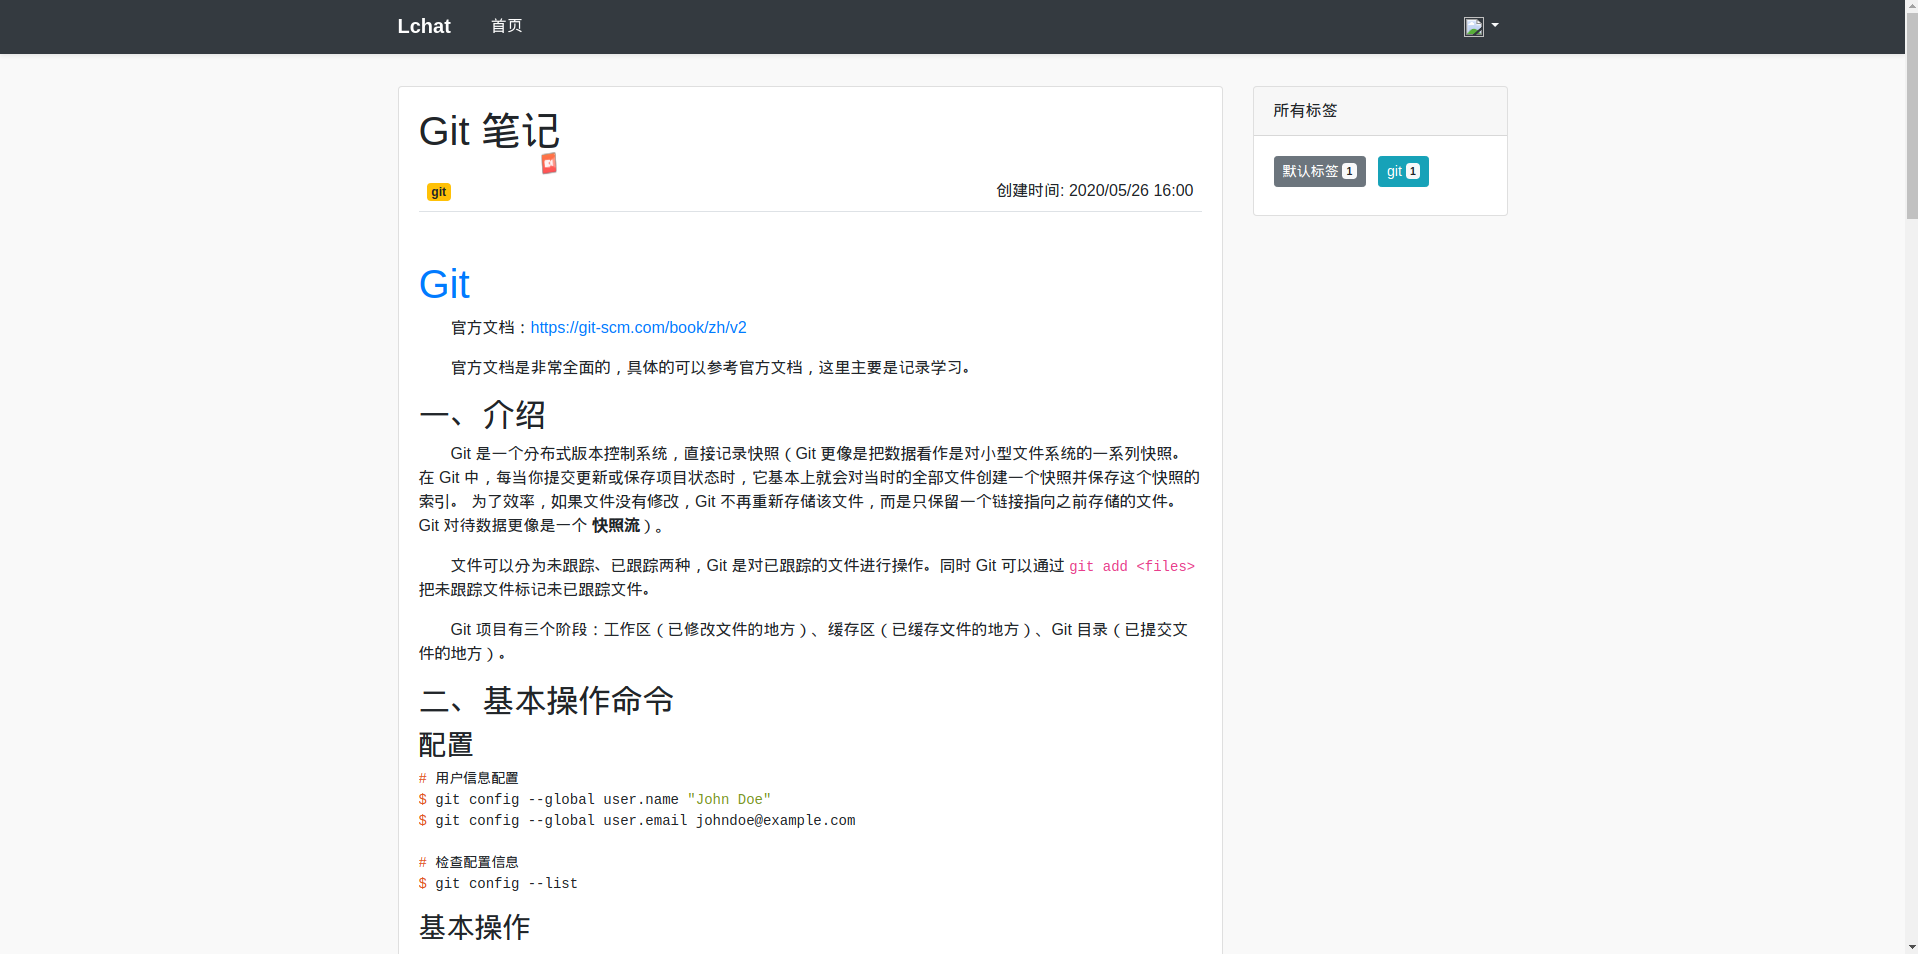
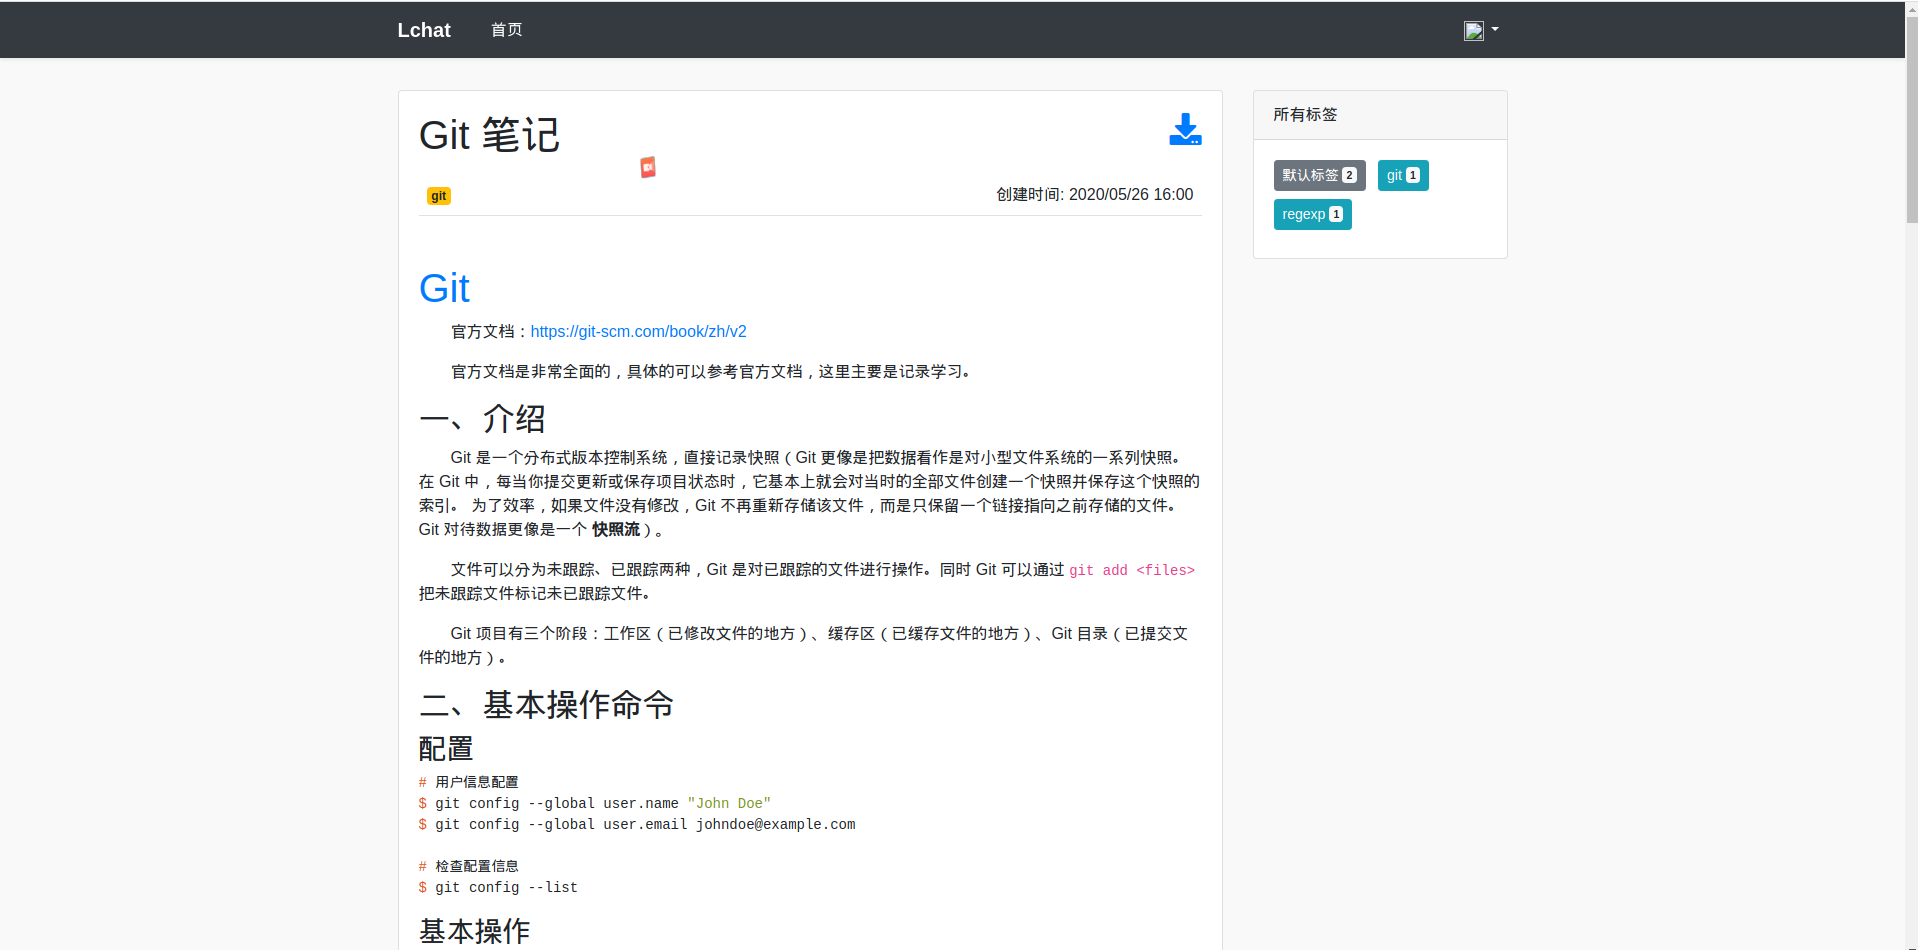
使用Go语言实现的系统，有写博客的功能

diff --git a/service/router/upload.go b/service/router/upload.go
@@ -2,9 +2,12 @@ package router
 
 import (
 	"fmt"
+	"github.com/gin-gonic/contrib/sessions"
 	"github.com/gin-gonic/gin"
 	uuid "github.com/satori/go.uuid"
+	"lchat/service/entity"
 	"net/http"
+	"strconv"
 	"strings"
 	"time"
 )
@@ -33,4 +36,34 @@ func upload(c *gin.Context) {
 	c.JSON(http.StatusOK, gin.H{
 		"url": fmt.Sprintf("/images/%s", filepath),
 	})
+}
+
+func downloadPost(c *gin.Context) {
+	session := sessions.Default(c)
+	user := session.Get(sessionKey)
+	u, _ := user.(*entity.User);
+	postId := c.Param("postId")
+	pid, err := strconv.ParseUint(postId, 10, 64)
+	if err != nil {
+		c.JSON(http.StatusOK, gin.H{
+			"code": 404,
+			"message": err.Error(),
+		})
+		return
+	}
+	post := &entity.Post{}
+	post.ID = uint(pid)
+	if err = post.Load(); err != nil || (!post.Published && post.UserId != u.ID) {
+		c.JSON(http.StatusOK, gin.H{
+			"code": 404,
+			"message": err.Error(),
+		})
+		return
+	}
+	c.Header("Content-Type", "application/force-download")
+	c.Header("Content-Disposition", fmt.Sprintf("attachment; filename=%s%s", post.Title, ".md"))
+	c.Header("Content-Transfer-Encoding", "binary")
+	w := c.Writer
+	w.WriteHeader(http.StatusOK)
+	w.WriteString(post.Body)
 }

diff --git a/service/router/router.go b/service/router/router.go
@@ -52,6 +52,7 @@ func Run() error {
 		authorized.DELETE("/post/removeTag", postRemoveTag)
 		authorized.GET("/user/posts", userPostsPage)
 		authorized.POST("/upload", upload)
+		authorized.GET("/download/post/:postId", downloadPost)
 	}
 
 	return router.Run(":" + conf.Get().Server.Port)
